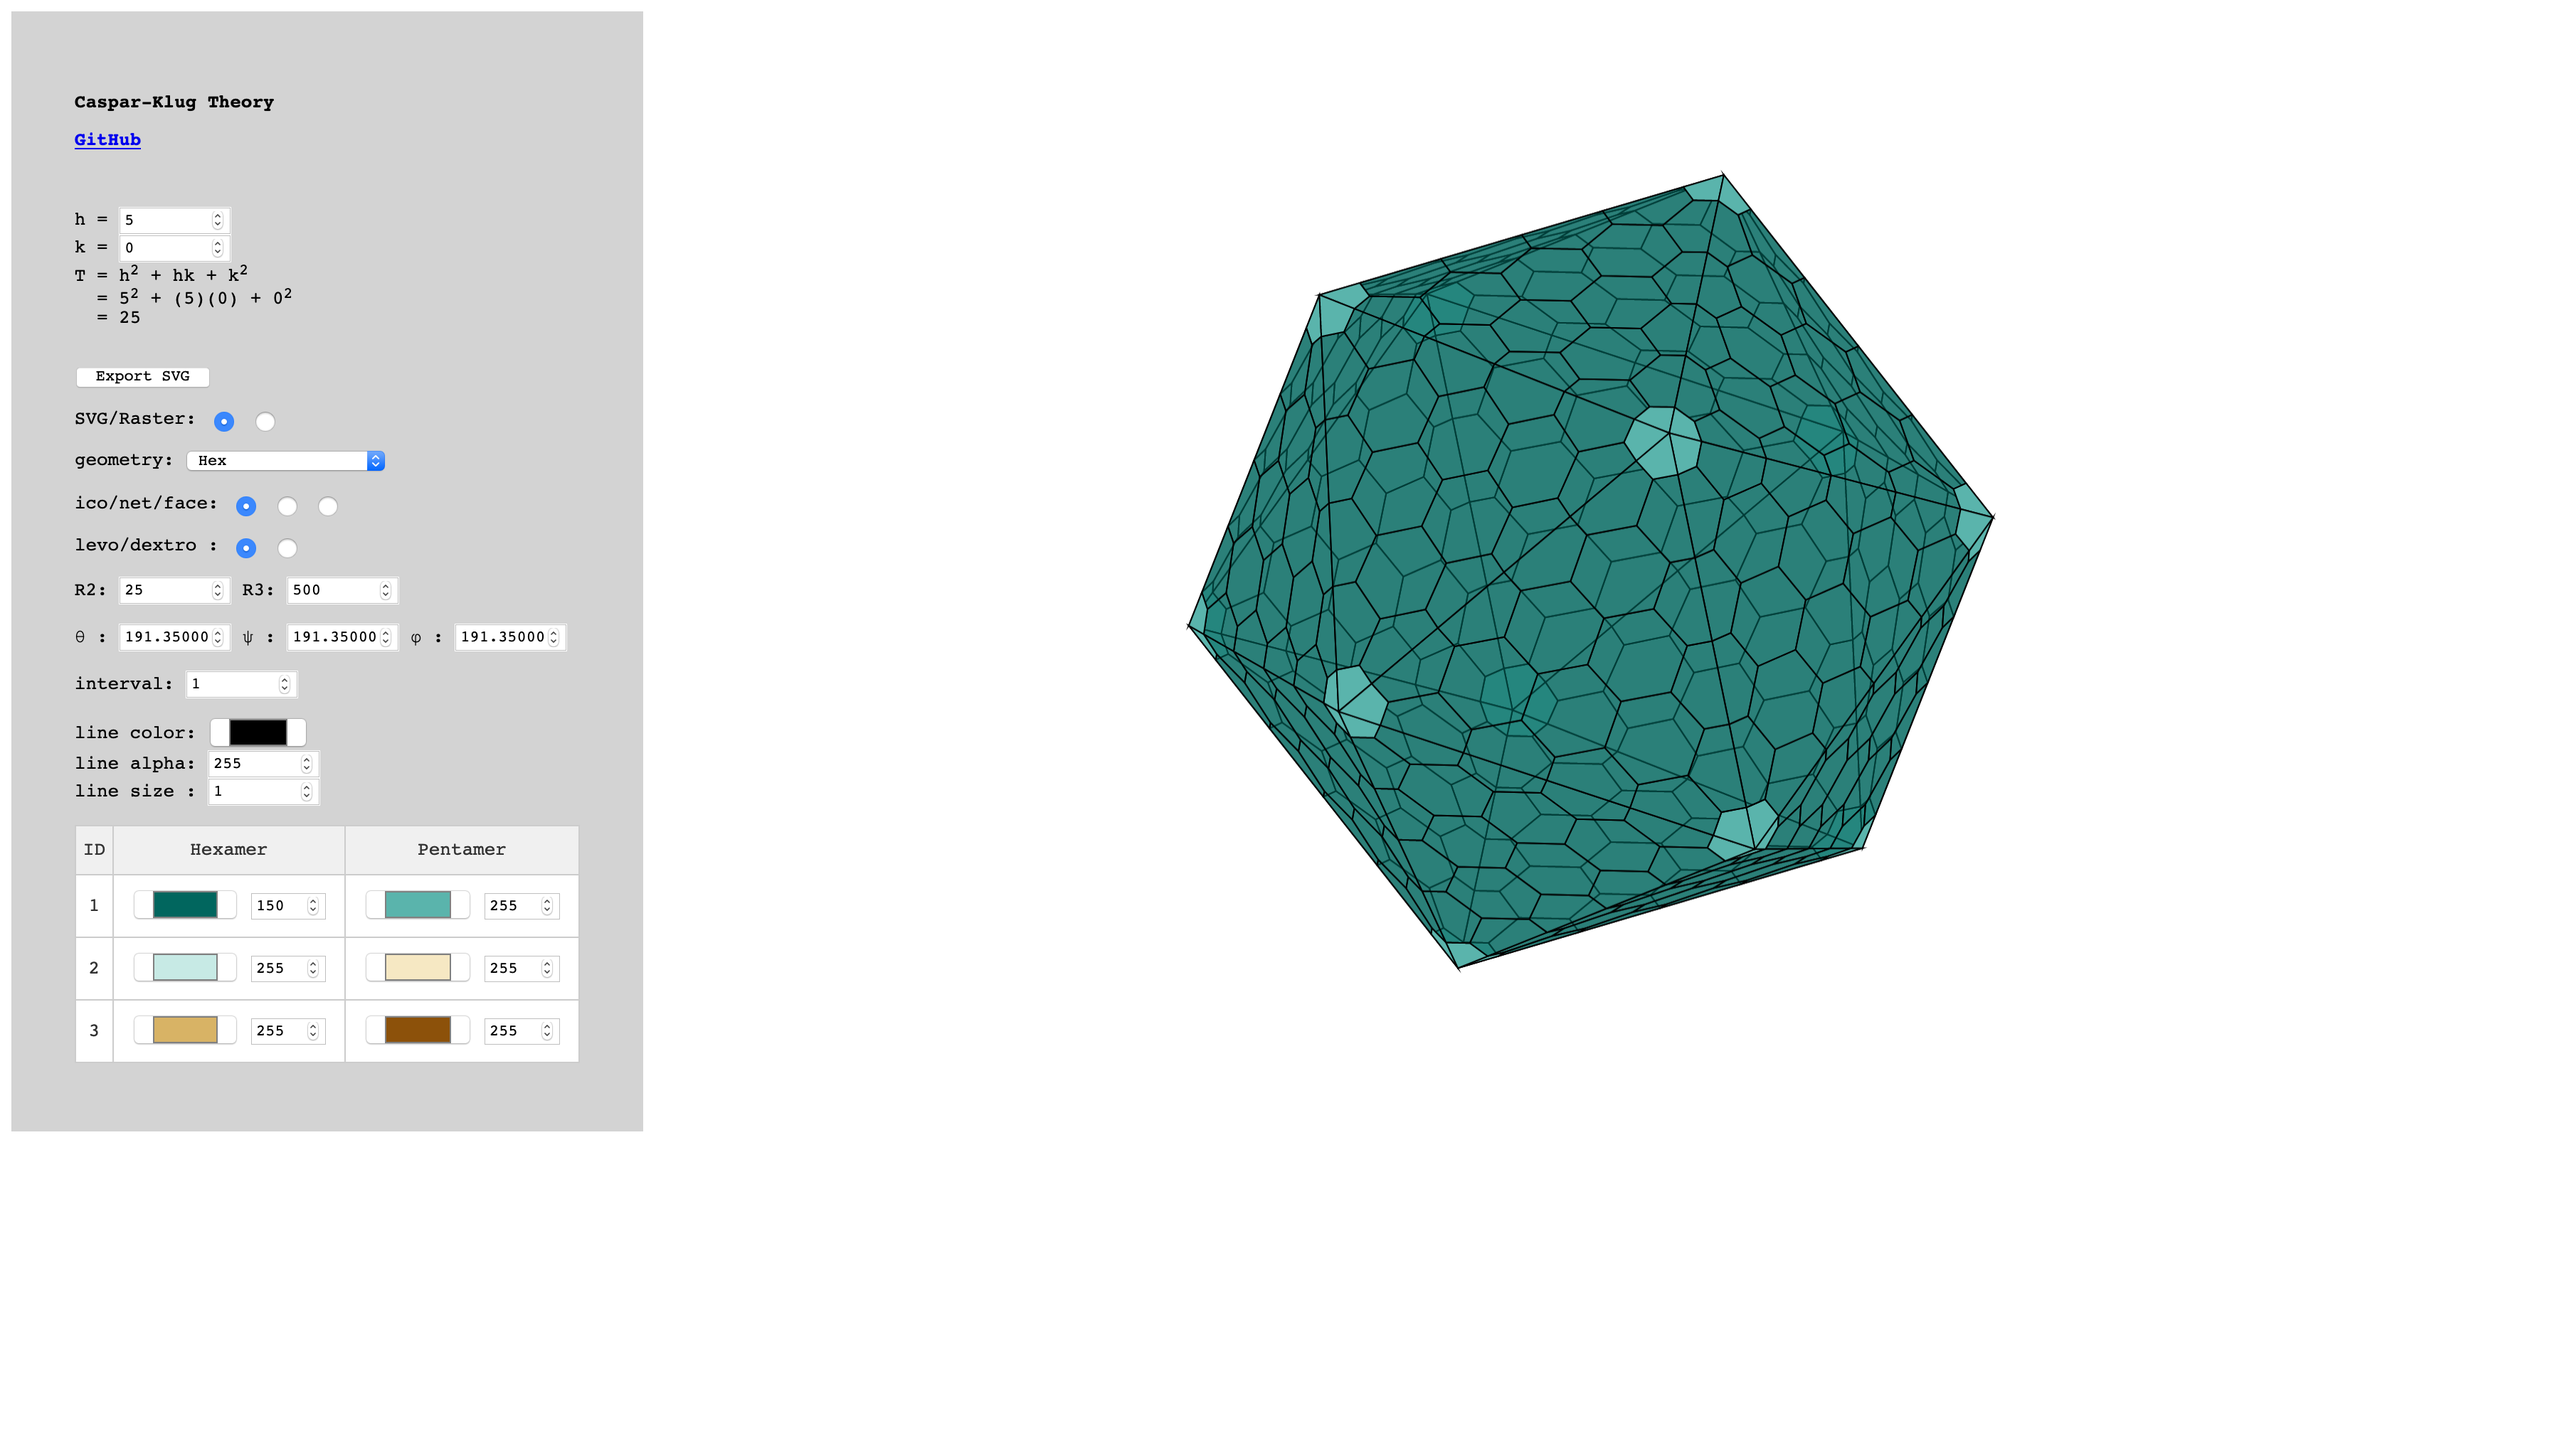
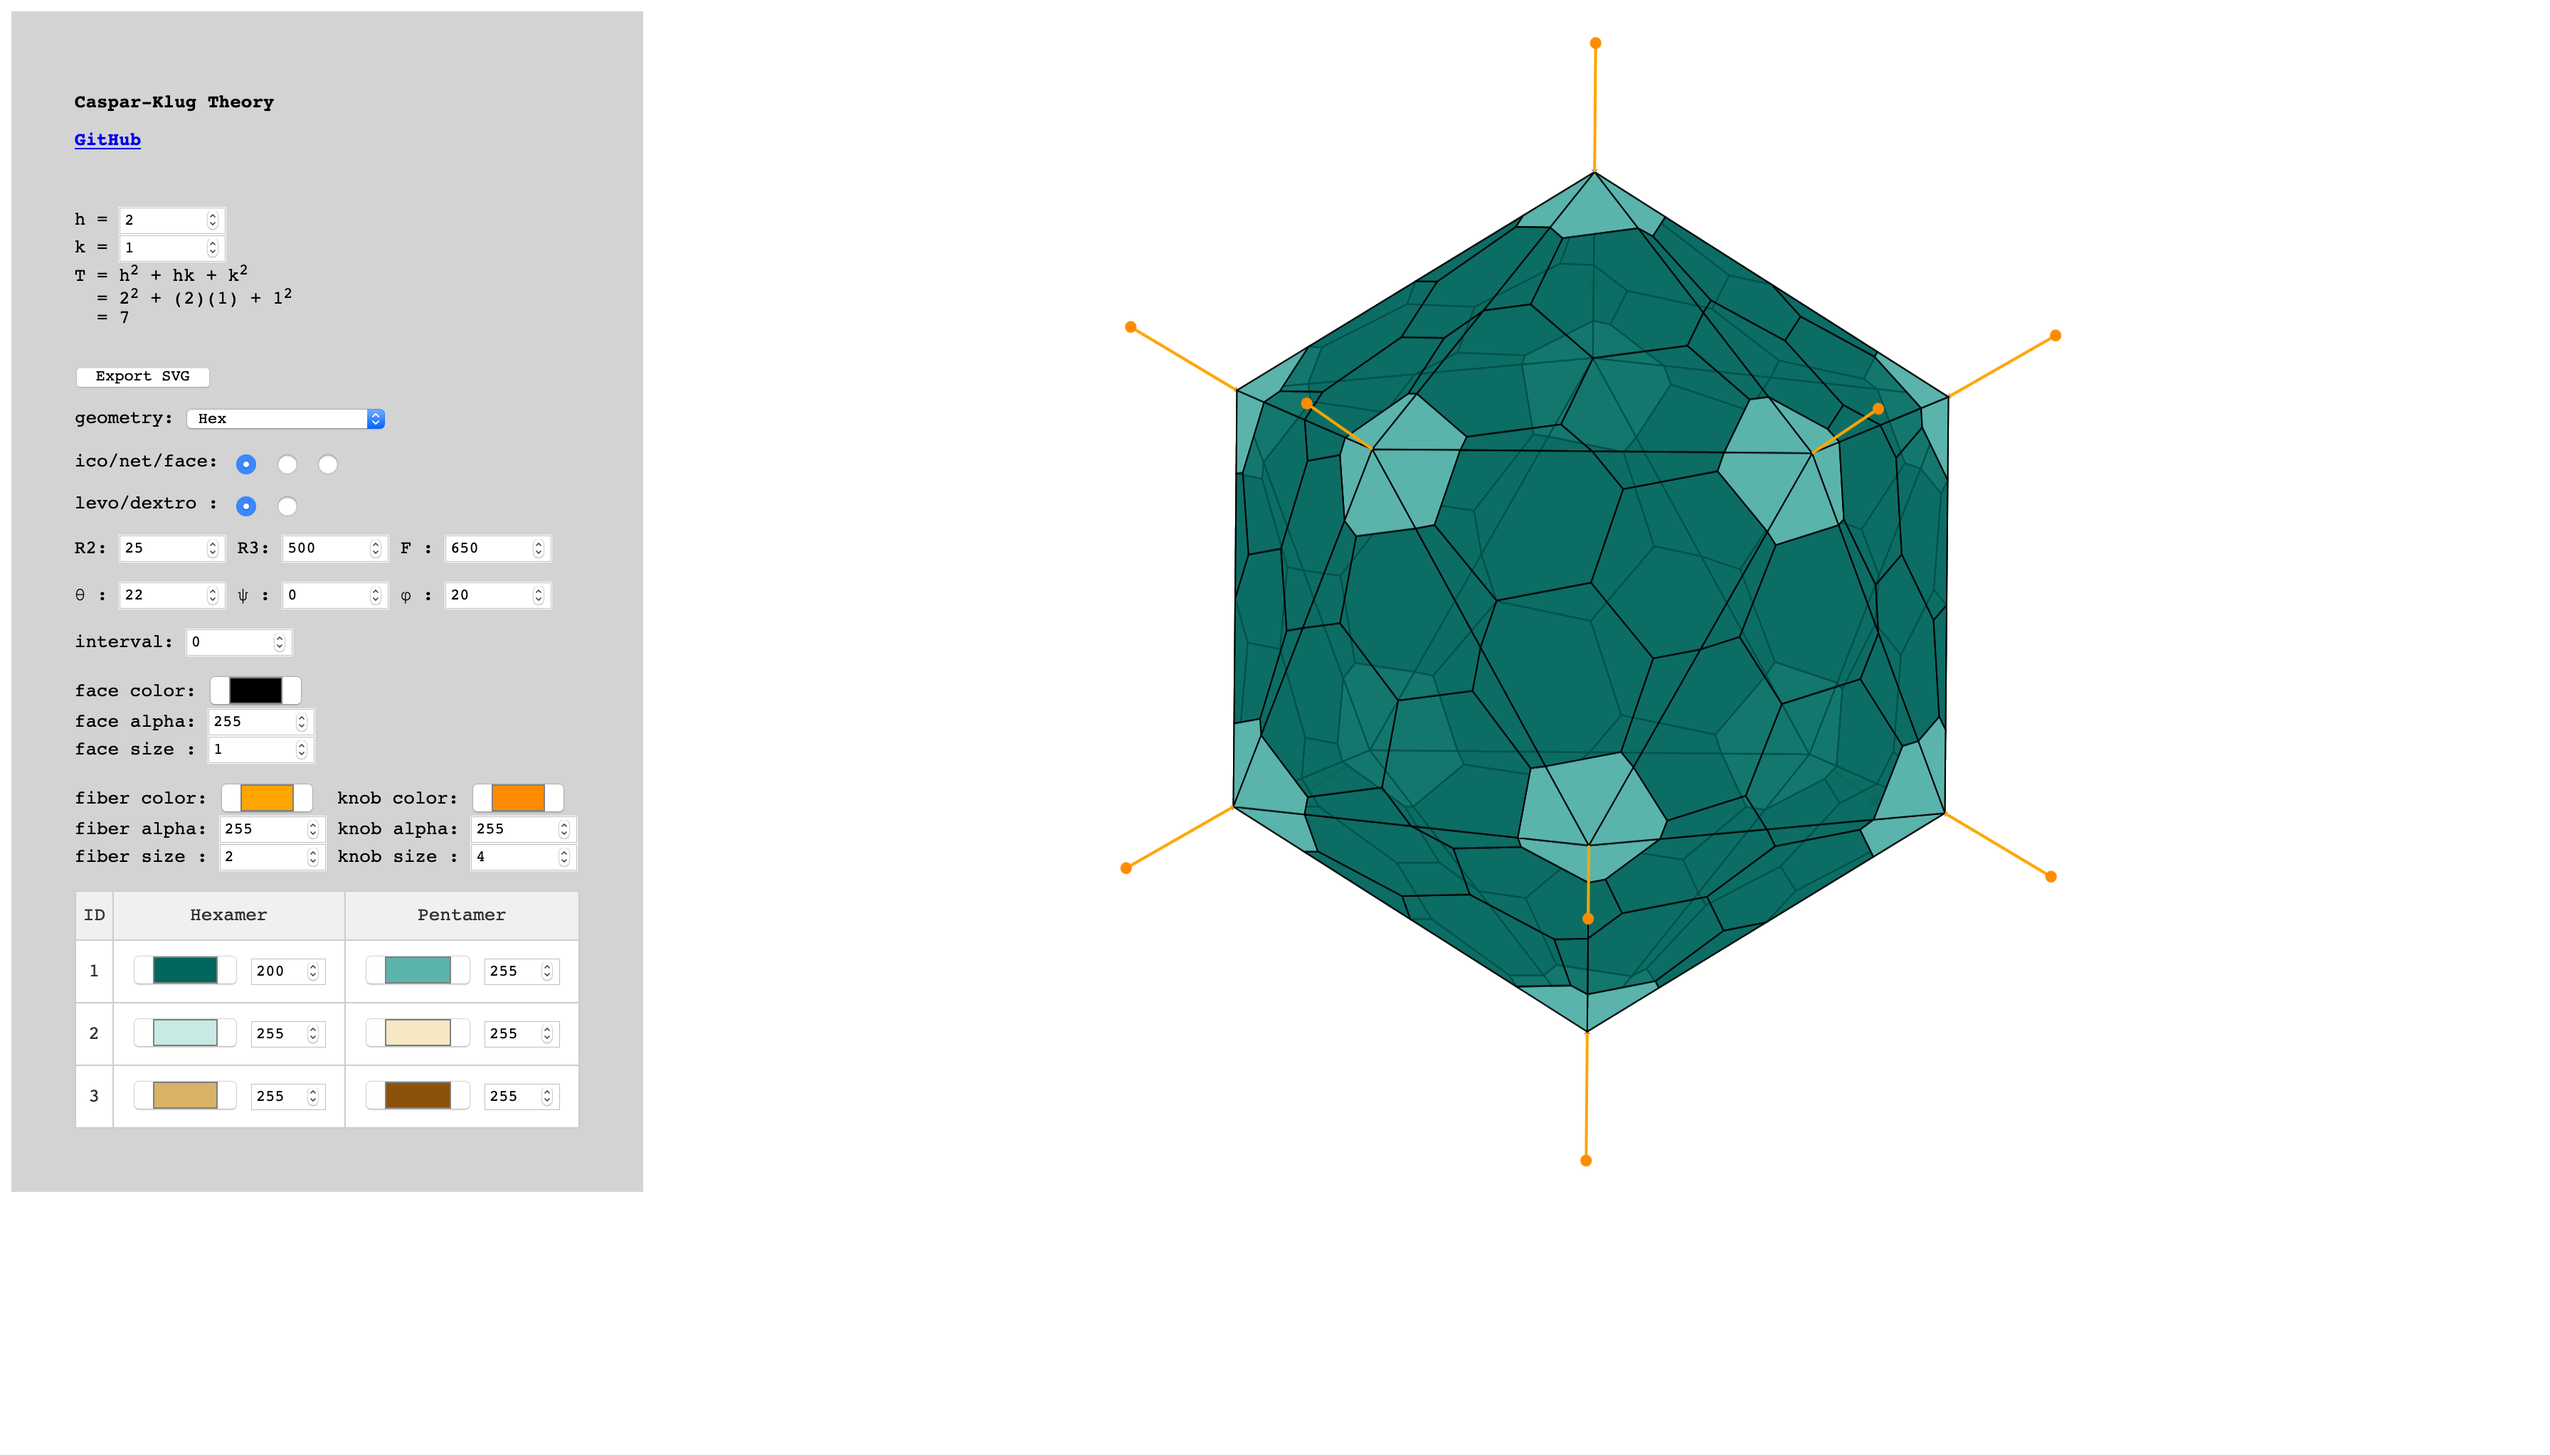
add fiber render

Changed region(s): [[0.4688, 0.1232, 0.7812, 0.7082], [0.0, 0.2771, 0.25, 0.8314]]

diff --git a/js/app.js b/js/app.js
@@ -55,6 +55,7 @@ function getOpt() {
         dextro: eid("dextro").checked,
         R2: parseFloat(eid("R2").value),
         R3: parseFloat(eid("R3").value),
+        F: parseFloat(eid("F").value),
         θ: parseFloat(eid("θ").value),
         ψ: parseFloat(eid("ψ").value),
         φ: parseFloat(eid("φ").value),
@@ -87,11 +88,11 @@ function drawHex() {
     }
 }
 
-function drawFace() {
+function getFaceStyle() {
     var style = {
         "face": {
-            strokeColor: eid("line.color").value + parseAlpha(eid("line.alpha").value),
-            strokeWidth: parseFloat(eid("line.size").value)
+            strokeColor: eid("face.color").value + parseAlpha(eid("face.alpha").value),
+            strokeWidth: parseFloat(eid("face.size").value)
         },
         "levo": opt.levo
     }
@@ -102,8 +103,25 @@ function drawFace() {
         style["pen.mer-" + i] = {
             fillColor: getMer(i, 2, 1).value + parseAlpha(getMer(i, 2, 2).value),
         }
+    };
+    return style;
+}
+
+function drawFace() {
+    face = hex.face(opt.h, opt.k, getFaceStyle());
+}
+
+function getIcoStyle() {
+    return {
+        "fib.mer": {
+            strokeColor: eid("fib.color").value + parseAlpha(eid("fib.alpha").value),
+            strokeWidth: parseFloat(eid("fib.size").value)
+        },
+        "knb.mer": {
+            R: parseFloat(eid("knb.size").value),
+            "style": { fillColor: eid("knb.color").value + parseAlpha(eid("knb.alpha").value) }
+        }
     }
-    face = hex.face(opt.h, opt.k, style);
 }
 
 function redraw(ele) {
@@ -113,7 +131,7 @@ function redraw(ele) {
         if (e.checked) {
             switch (e.value) {
                 case "ico":
-                    obj = drawIco(face, opt.R3, cam.P);
+                    obj = drawIco(face, opt.R3, opt.F, cam.P, getIcoStyle());
                     break;
                 case "net":
                     obj = drawNet(face);
@@ -147,15 +165,17 @@ window.onload = function () {
         .forEach(e => e.addEventListener("change", tNumber));
     ["h", "k", "geometry", "levo", "dextro", "R2"]
         .map(eid)
-        .concat(Array.from(document.querySelectorAll("[id^='line']")))
+        .concat(Array.from(document.querySelectorAll("[id^='face.']")))
         .concat(Array.from(document.querySelectorAll(".tg > * > * > * > input")))
         .forEach(e => e.addEventListener("change", drawFace));
     ["θ", "ψ", "φ"]
         .map(eid)
         .forEach(e => e.addEventListener("change", updateCam));
-    ["h", "k", "geometry", "levo", "dextro", "ico", "net", "face", "R2", "R3", "θ", "ψ", "φ"]
+    ["h", "k", "geometry", "levo", "dextro", "ico", "net", "face", "R2", "R3", "F", "θ", "ψ", "φ"]
         .map(eid)
-        .concat(Array.from(document.querySelectorAll("[id^='line']")))
+        .concat(Array.from(document.querySelectorAll("[id^='face.']")))
+        .concat(Array.from(document.querySelectorAll("[id^='fib.']")))
+        .concat(Array.from(document.querySelectorAll("[id^='knb.']")))
         .concat(Array.from(document.querySelectorAll(".tg > * > * > * > input")))
         .forEach(e => e.addEventListener("change", redraw));
 

diff --git a/js/capsid.js b/js/capsid.js
@@ -154,7 +154,7 @@ class RegularIcosahedron {
     }
 
     /**
-     * Calculate the 2D face projections.
+     * Calculate the 3D face projections.
      * @param {Array} P The camera matrix.
      */
     static faces(R, P) {
@@ -514,7 +514,7 @@ function drawNet(face) {
     return net;
 }
 
-function drawIco(face, R, P) {
+function drawIco(face, R, F, P, opt) {
     // affine transform each triangle to the 2D projection of icosahedron face
     const A = Matrix.inv3([
         [face.bounds.topCenter.x, face.bounds.bottomLeft.x, face.bounds.bottomRight.x],
@@ -522,19 +522,37 @@ function drawIco(face, R, P) {
         [1, 1, 1]
     ]);
 
-    return new Group(RegularIcosahedron.faces(R, P).map(e => {
-        const B = [
-            [e[0][0], e[1][0], e[2][0]],
-            [e[0][1], e[1][1], e[2][1]],
-            [1, 1, 1]
-        ];
-        const M = Matrix.mul(B, A);
-        return face.clone().transform(
-            new paper.Matrix(
-                M[0][0], M[1][0],
-                M[0][1], M[1][1],
-                M[0][2], M[1][2]
-            )
-        );
-    }));
+    var fibers = [];
+    if (F > 0) {
+        var p1 = RegularIcosahedron.verts(R, P).map(e => [e[0][0], e[1][0], e[2][0]]);
+        var p2 = RegularIcosahedron.verts(F, P).map(e => [e[0][0], e[1][0], e[2][0]]);
+        var fibers = p1.map((_, i) => [p1[i], p2[i]]);
+    }
+
+    return new Group(
+        RegularIcosahedron.faces(R, P).concat(fibers)
+            .sort((a, b) => Math.min(...a.map(a => a[2])) - Math.min(...b.map(b => b[2]))).map(e => {
+                if (e.length == 3) {
+                    const B = [
+                        [e[0][0], e[1][0], e[2][0]],
+                        [e[0][1], e[1][1], e[2][1]],
+                        [1, 1, 1]
+                    ];
+                    const M = Matrix.mul(B, A);
+                    return face.clone().transform(
+                        new paper.Matrix(
+                            M[0][0], M[1][0],
+                            M[0][1], M[1][1],
+                            M[0][2], M[1][2]
+                        )
+                    );
+                } else {
+                    var fiber = new Path.Line([e[0][0], e[0][1]], [e[1][0], e[1][1]]);
+                    fiber.style = opt["fib.mer"];
+                    var knob = new Path.Circle([e[1][0], e[1][1]], opt["knb.mer"].R);
+                    knob.style = opt["knb.mer"]["style"];
+                    return new Group([fiber, knob]);
+                }
+            })
+    );
 }

diff --git a/capsid.html b/capsid.html
@@ -57,6 +57,8 @@
                 <input type="number" id="R2" step="any" value="25" min="0">
                 <label for="R">R3:</label>
                 <input type="number" id="R3" step="any" value="500" min="0">
+                <label for="F">F&nbsp;:</label>
+                <input type="number" id="F" step="any" value="700" min="0">
                 <br><br>
             </div>
 
@@ -71,14 +73,31 @@
             <input type="number" id="interval" value="1" min="0">
             <br><br>
 
-            <label for="face.color">line color:</label>
-            <input type="color" id="line.color" step="any" value="1" min="0">
+            <label for="face.color">face color:</label>
+            <input type="color" id="face.color">
             <br>
-            <label for="line.alpha">line alpha:</label>
-            <input type="number" id="line.alpha" step="any" value="255" min="0" max="255">
+            <label for="face.alpha">face alpha:</label>
+            <input type="number" id="face.alpha" step="any" value="255" min="0" max="255">
             <br>
-            <label for="line.size">line size&nbsp;:</label>
-            <input type="number" id="line.size" step="any" value="1" min="0">
+            <label for="face.size">face size&nbsp;:</label>
+            <input type="number" id="face.size" step="any" value="1" min="0">
+            <br>
+            <br>
+
+            <label for="fib.color">fiber color:</label>
+            <input type="color" id="fib.color" value="#FFA500">
+            <label for="knb.color">&nbsp;knob color:</label>
+            <input type="color" id="knb.color" value="#FF8C00">
+            <br>
+            <label for="fib.alpha">fiber alpha:</label>
+            <input type="number" id="fib.alpha" step="any" value="255" min="0" max="255">
+            <label for="knb.alpha">knob alpha:</label>
+            <input type="number" id="knb.alpha" step="any" value="255" min="0" max="255">
+            <br>
+            <label for="fib.size">fiber size&nbsp;:</label>
+            <input type="number" id="fib.size" step="any" value="2" min="0">
+            <label for="knb.size">knob size&nbsp;:</label>
+            <input type="number" id="knb.size" step="any" value="4" min="0">
             <br>
             <br>
 

diff --git a/css/app.css b/css/app.css
@@ -24,7 +24,7 @@ input {
 }
 
 input[type=color], input[type=number] {
-    width: 20%;
+    width: 19%;
 }
 
 table {
